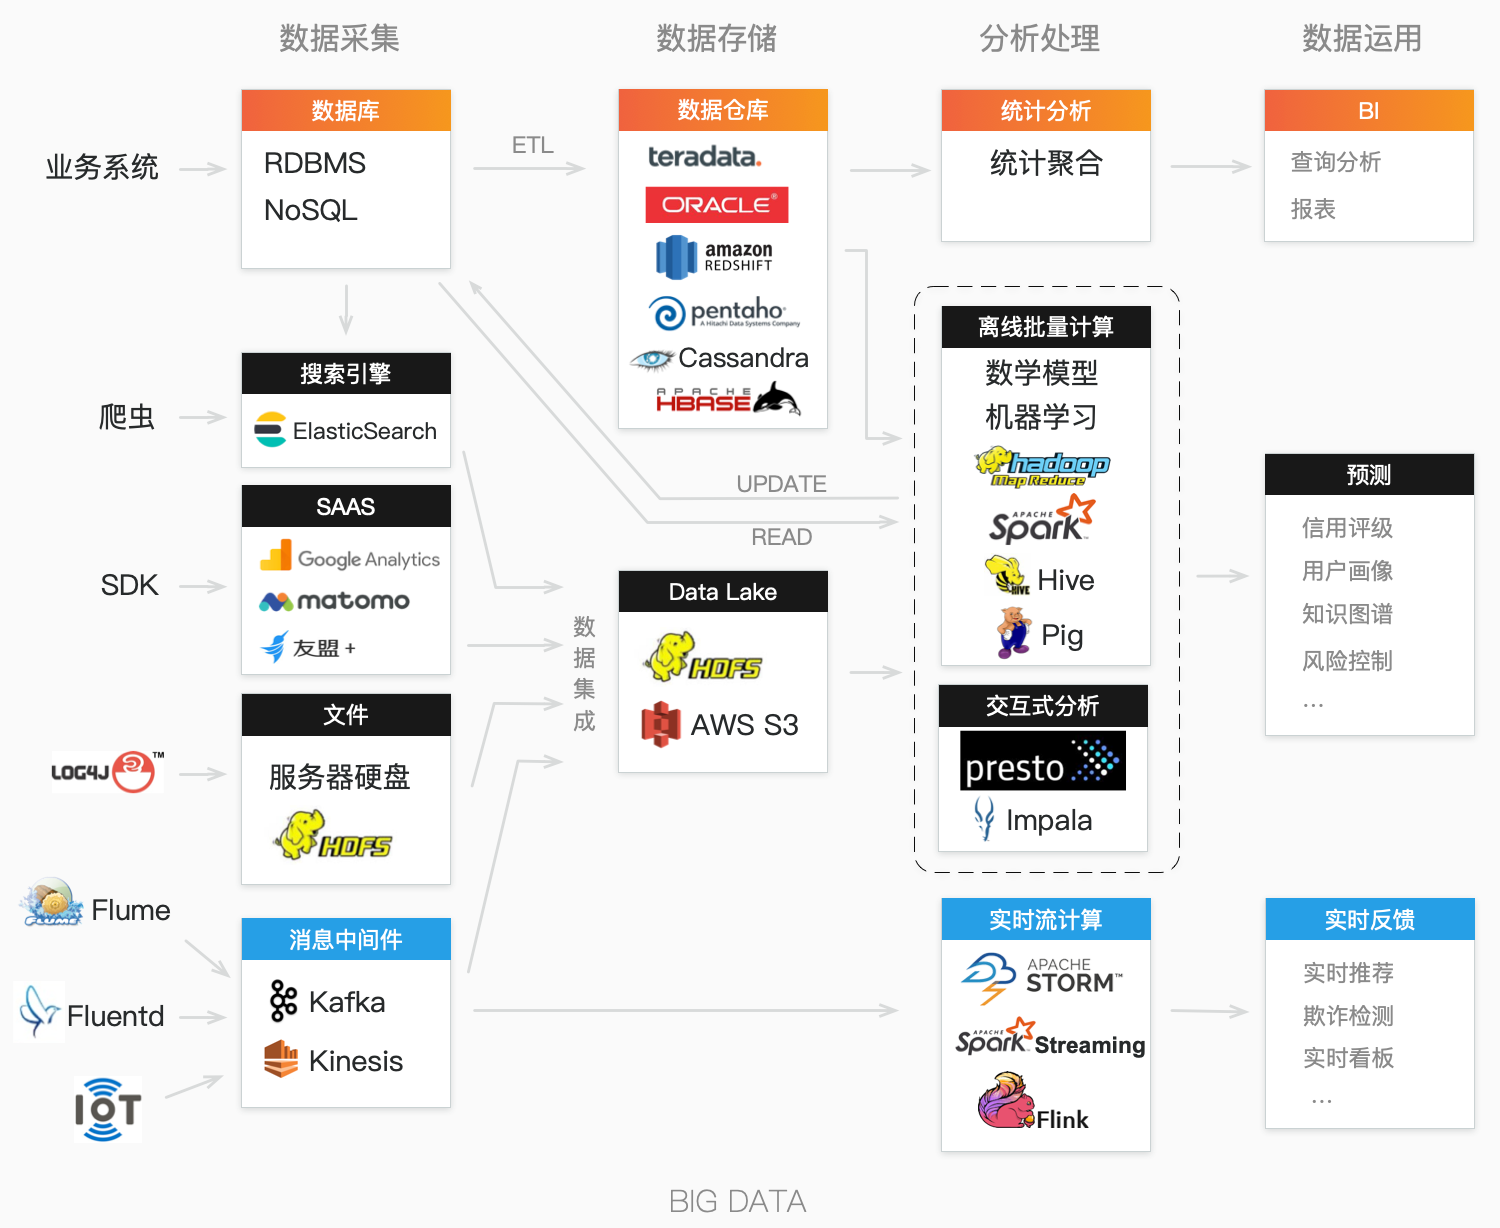
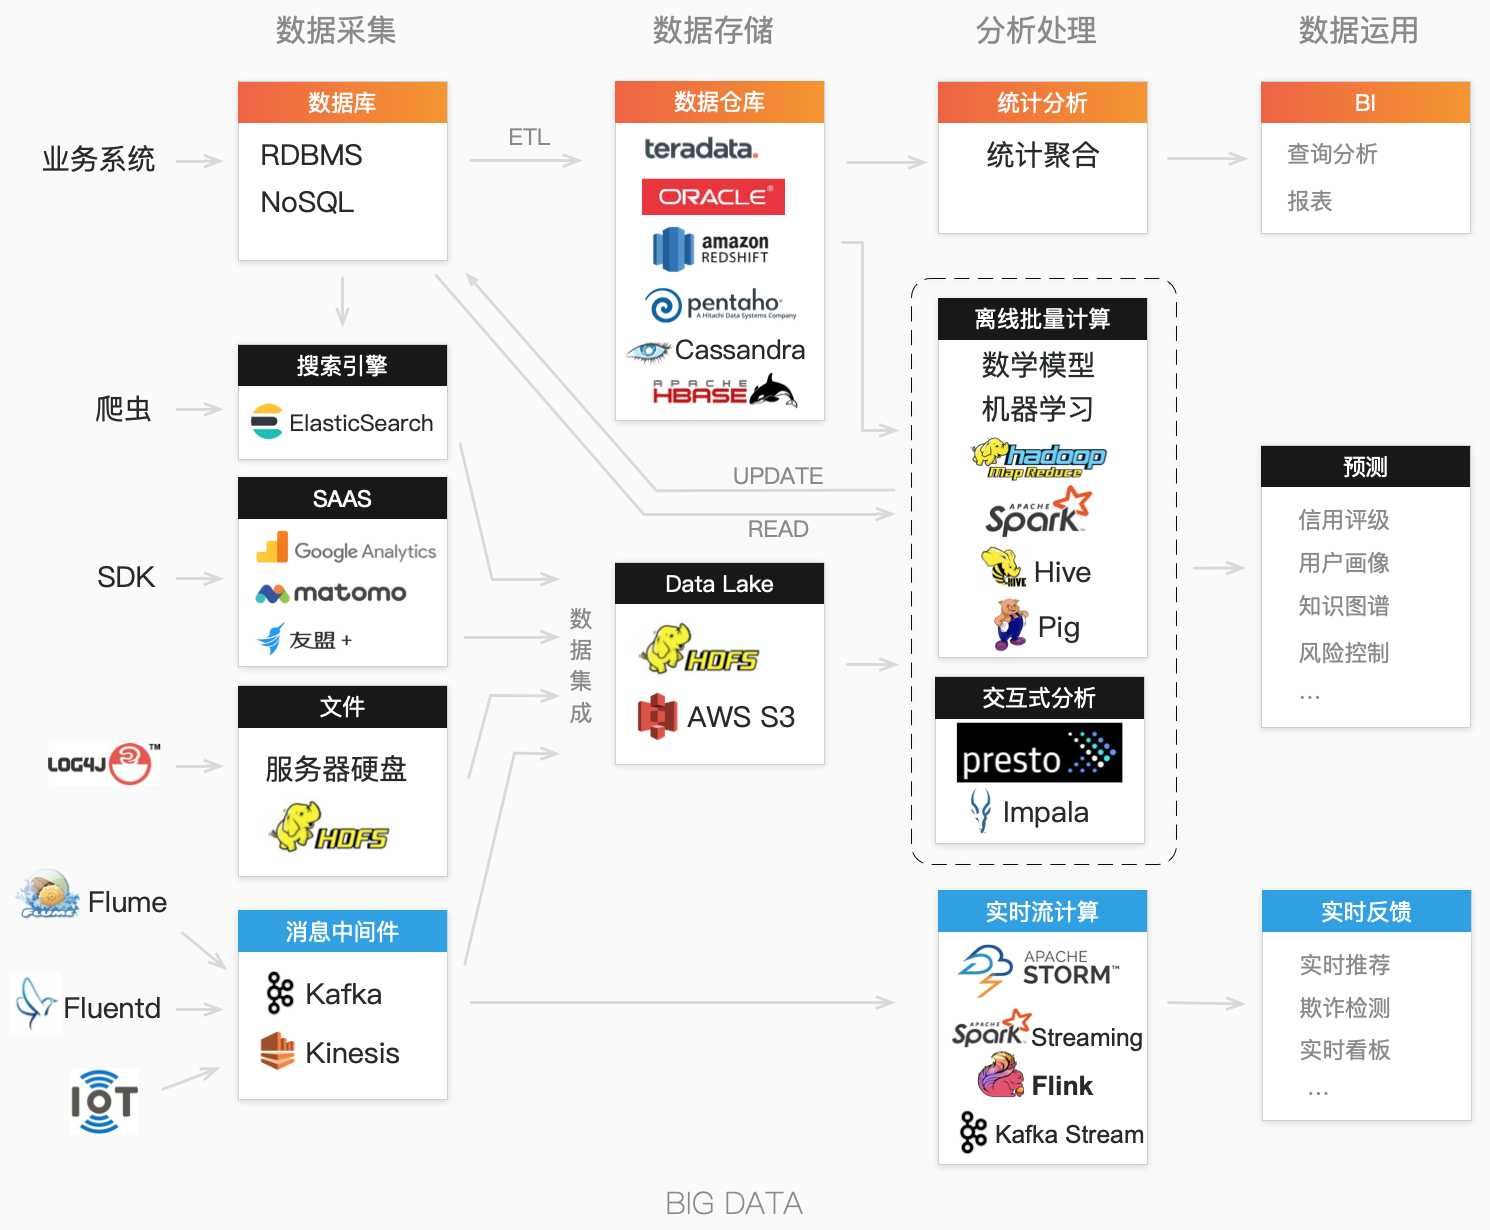
Publish blog.

diff --git a/assets/css/screen.css b/assets/css/screen.css
@@ -307,7 +307,7 @@ h3 {
 	/*21 / 16*/
 	line-height: 1.15;
 	/*24 / 21*/
-	margin-top: 2.285714em;
+	margin-top: 1.285714em;
 	/*48 / 21*/
 	margin-bottom: 1.15em;
 	/*24 / 21*/
@@ -453,7 +453,9 @@ li ol>li {
 li li ol>li{
 	list-style-type: lower-roman;
 }
-
+h2 {
+	font-weight:normal;
+}
 h2,
 h3 {
 	margin-bottom: .75em;
@@ -632,7 +634,7 @@ hr {
 }
 
 header, .context-menu, .megamenu-content, footer {
-	font-family: "PT Serif", 'Times New Roman', Times, serif;
+    font-family: 'Open Sans', sans-serif;
     color: #1f0909;
 }
 
@@ -800,7 +802,7 @@ a:hover {
     display: table;
     width: 100%;
     height: 100%;
-    margin-bottom: 5rem;
+    margin-bottom: 3rem;
     text-align: center;
     background: #222 no-repeat center center;
     background-size: cover;
@@ -1042,8 +1044,8 @@ a:hover {
     position: relative;
     width: 80%;
     max-width: 710px;
-    margin: 4rem auto;
-    padding-bottom: 4rem;
+    margin: 1rem auto;
+    padding-bottom: 2rem;
     border-bottom: #EBF2F6 1px solid;
     word-break: break-word;
     hyphens: auto;
@@ -1069,7 +1071,7 @@ a:hover {
 }
 
 body:not(.post-template) .post-title {
-    font-size: 3rem;
+    font-size: 2.4rem;
 }
 
 .post-title a {
@@ -1078,7 +1080,7 @@ body:not(.post-template) .post-title {
 
 .post-excerpt p {
     margin: 0;
-    font-size: 0.9em;
+    font-size: 1em;
     line-height: 1.7em;
 }
 
@@ -1088,7 +1090,7 @@ body:not(.post-template) .post-title {
 
 .post-meta {
     display: block;
-    margin: 1.75rem 0 0 0;
+    margin-top: 1rem;
     font-family: "Open Sans", sans-serif;
     font-size: 1rem;
     color: #9EABB3;
@@ -1492,9 +1494,9 @@ body:not(.post-template) .post-title {
 /* Location, website, and link */
 .author-profile .author-meta {
     margin: 2rem 0;
-    font-family: "Merriweather", serif;
     letter-spacing: 0.01rem;
     font-size: 1.7rem;
+    font-family: "Open Sans", sans-serif;	
 }
 .author-meta span {
     display: inline-block;
@@ -1706,7 +1708,7 @@ body:not(.post-template) .post-title {
     }
 
     body:not(.post-template) .post-title {
-        font-size: 3.2rem;
+        font-size: 2.4rem;
     }
 
     hr {
@@ -1882,7 +1884,7 @@ body:not(.post-template) .post-title {
     }
 
     .post-excerpt p {
-        font-size: 0.85em;
+        font-size: 1em;
     }
 
     .page-description {
@@ -1895,7 +1897,7 @@ body:not(.post-template) .post-title {
     }
 
     body:not(.post-template) .post-title {
-        font-size: 2.5rem;
+        font-size: 2rem;
     }
 
     .post-template .post {

diff --git a/_posts/2019-03-11-kafka-distributed-data-platform.md b/_posts/2019-03-11-kafka-distributed-data-platform.md
@@ -1,0 +1,87 @@
+---
+layout: post
+title:  "Kafka分布式数据平台"
+categories: Kafka Streaming
+typora-root-url: /Users/aaron/Google Drive/my/blog/aaronyao.github.io
+---
+[Kafka](https://kafka.apache.org)即可作为系统集成的消息中间件和数据存储系统，提供发布订阅和数据存储能力，也可作为流数据的实时计算平台。
+
+#### Kafka Cluster
+
+Kafka集群由一个ZooKeeper服务和无数的Broker节点构成，
+
+![kafka cluster](/assets/images/kafka-cluster.png)
+
+- **ZooKeeper**，是一个独立运行于Kafka外部的服务，它为分布式应用程序提供高性能的协调服务，使其更容易的解决分布式一致性、Leader选举等分布式系统的核心问题；
+- **Broker**，Kafka服务节点，也是消息的存储节点。
+
+Kafka的消息数据以Topic的形式进行分类，同一个Topic的数据，物理存储上还会进行Partition（数据分片）。
+
+同时，每个Partition是一个有序的队列。选择适当的维度进行Partition的划分，比如按UserID进行划分，保障同一个User的数据在一个有序的Partition中，最终使得Consumer在这个Partition中获得有序的消息，
+
+![Kafka Partition](/assets/images/kafka-topic-partition.png)
+
+Kafka用多个Broker进行数据存储，利用ZooKeeper实现了一致性的分布式存储，
+
+![kafka partition replication](/assets/images/kafka-partition-replication.png)
+
+- 每一个Partition会被复制到多个Broker（节点）上，以提供容错性。这些Replica中会有一个Leader，负责读写，其他的Replica叫做Follower，被动接收复制数据；
+- 如果Partition Leader失败，利用ZooKeeper，会在Followers中选举出新的Leader来进行读写，其他的Follower从新的Leader复制数据；
+
+Cluster和Partition的设计，给Kafka带来了**可伸缩性（无限存储）**、**容错性（即使部分节点失败也不会丢失数据）**、以及**高性能（均匀分配）**。
+
+#### Kafka的参与角色
+
+围绕Kafka Cluster，有四种参与角色：
+![kafka participants](/assets/images/kafka-participants.png)
+
+- **Producer**，消息发布者，发布消息到一个或多个Topic（消息分类）；
+- **Consumer**，消息订阅者，可以订阅一个或多个Topic，当Topic有消息产生时，Kafka会及时把消息推送给Consumer；
+- **Connector**，用于从其他数据系统（如数据库）导入数据到Kafka，或者将Kafka数据导出到其他系统。这一点功能上类似Apache Flume，不同的是，Kafka Connect解决的是Kafka与其他数据系统间的传输问题，而Flume可以更加灵活适配不同的数据源和目的地；
+- **Stream Processor**，流处理器，通过订阅一个或多个Topic，然后对产生的流数据进行处理，把处理结果再重新发布到Topic。这也就是**Kafka Stream**，Kafka提供的实时流计算功能。
+
+#### 应用场景
+
+##### 一、用作消息中间件
+
+系统集成时，往往需要一个消息中间件，充当数据的通道和存储。消息中间件有两种常见的消息模型：**队列模型(queue)**和**发布订阅模型(pubsub)**。这两者有一些重要的区别，
+
+- queue消息只能被一个consumer处理，而pubsub可以把消息广播给多个订阅者；
+- queue消息可以同时被多个consumer并行处理，提升处理效能，但pubsub的每一个consumer会独自面对这个Topic订阅的所有消息；
+
+Kafka利用了Consumer Group的概念，结合了queue和pubsub的优点。
+
+![kafka consumer group](/assets/images/kafka-consumer-group.png)
+
+pubsub可以广播消息到多个Consumer Group，在一个Group内保证每个消息只有一个Consumer，于是可以在Group进行并行处理。
+
+对于多个Consumer并行处理消息的场景，一般情况下是可行的。消息在Broker中进行了排序，但是异步到达多个Consumer后，并不能保证执行的先后顺序。对于**消息顺序有强要求**的场景，则可以利用Partition来解决，
+
+![kafka partition order](/assets/images/kafka-partition-order.png)
+
+通过适当的对Partition进行规划，把一个Topic的数据切分为更小的分片，Kafka保障每一个分片中消息的有序性，每一个Consumer指定消费一个分片，完成有顺序的消息处理。
+
+##### 二、用作流计算
+
+相比老牌的流计算框架（STORM、Spark Streaming和Flink），Kafka Stream是后来者，但是凭借“Simple is beautiful”的设计理念，给开发者带来了更简化但更强大的流计算。
+
+它设计的简化主要体现在，
+
+- 仅仅是一个客户端库，而不需要框架；处理程序可以使单独的程序，也可以嵌入到已有的服务程序中，可以选择自己想要的部署方式，而其他的流计算框架需要部署和运维一套框架，处理程序运行在框架中；
+- 发明了一套流和表的理论，类似数据库日志和数据表一样，流代表了随时间推进的修改日志，表则是流聚合以后的最终状态视图。Kafka Stream通过提供KStream和KTable接口，为**有状态**的流处理提供了方便的编程模型。
+
+功能上，除了分布式系统应该具备的高性能和可靠性，Kafka Stream有以下流计算的特点：
+
+- 支持流的持久化和可重放；
+- 支持有状态的流处理，包括分布式Join、聚合等；
+- 支持流和表两种视图；
+- 提供流处理的DSL，如 `map`, `filter`, `reduce` 等操作；
+
+如果已经选择了Kafka作为消息中间件，同时也需要做一些流计算，那么Kafka是一个不错的选择。
+
+#### 参考
+
+- https://kafka.apache.org/intro
+- [Introducing Kafka Streams: Stream Processing Made Simple](https://www.confluent.io/blog/introducing-kafka-streams-stream-processing-made-simple/)
+
+(END)

diff --git a/_posts/2019-03-01-getting-to-know-big-data.md b/_posts/2019-03-01-getting-to-know-big-data.md
@@ -66,7 +66,7 @@ typora-root-url: /Users/aaron/Google Drive/my/blog/aaronyao.github.io
   流的特点是持续不断和小数据量，和流水一样。数据以小文件流的形式持续不断的流入，计算任务仅处理单条数据（或小批量数据），以几乎实时的时效完成计算。为此，需要两个强大的支撑组件，流存储系统和流计算系统，
 
   - 流存储系统，具备高吞吐低延迟的特性，保障消息不丢失，实时的传送给流计算系统，如Kafka、Kinesis；
-  - 流计算系统，具备弹性伸缩的特性，可靠地管理分布式任务线程，提供无限计算能力，如STORM、Spark streaming、Flink。
+  - 流计算系统，具备弹性伸缩的特性，可靠地管理分布式任务线程，提供无限计算能力，如STORM、Spark streaming、Flink、Kafka Stream。
 
 如何更有效的挖掘数据价值，是另一个大数据技术的重要方向。从相对简单的统计聚合算法，发展到了利用数学模型来做分析处理。
 
